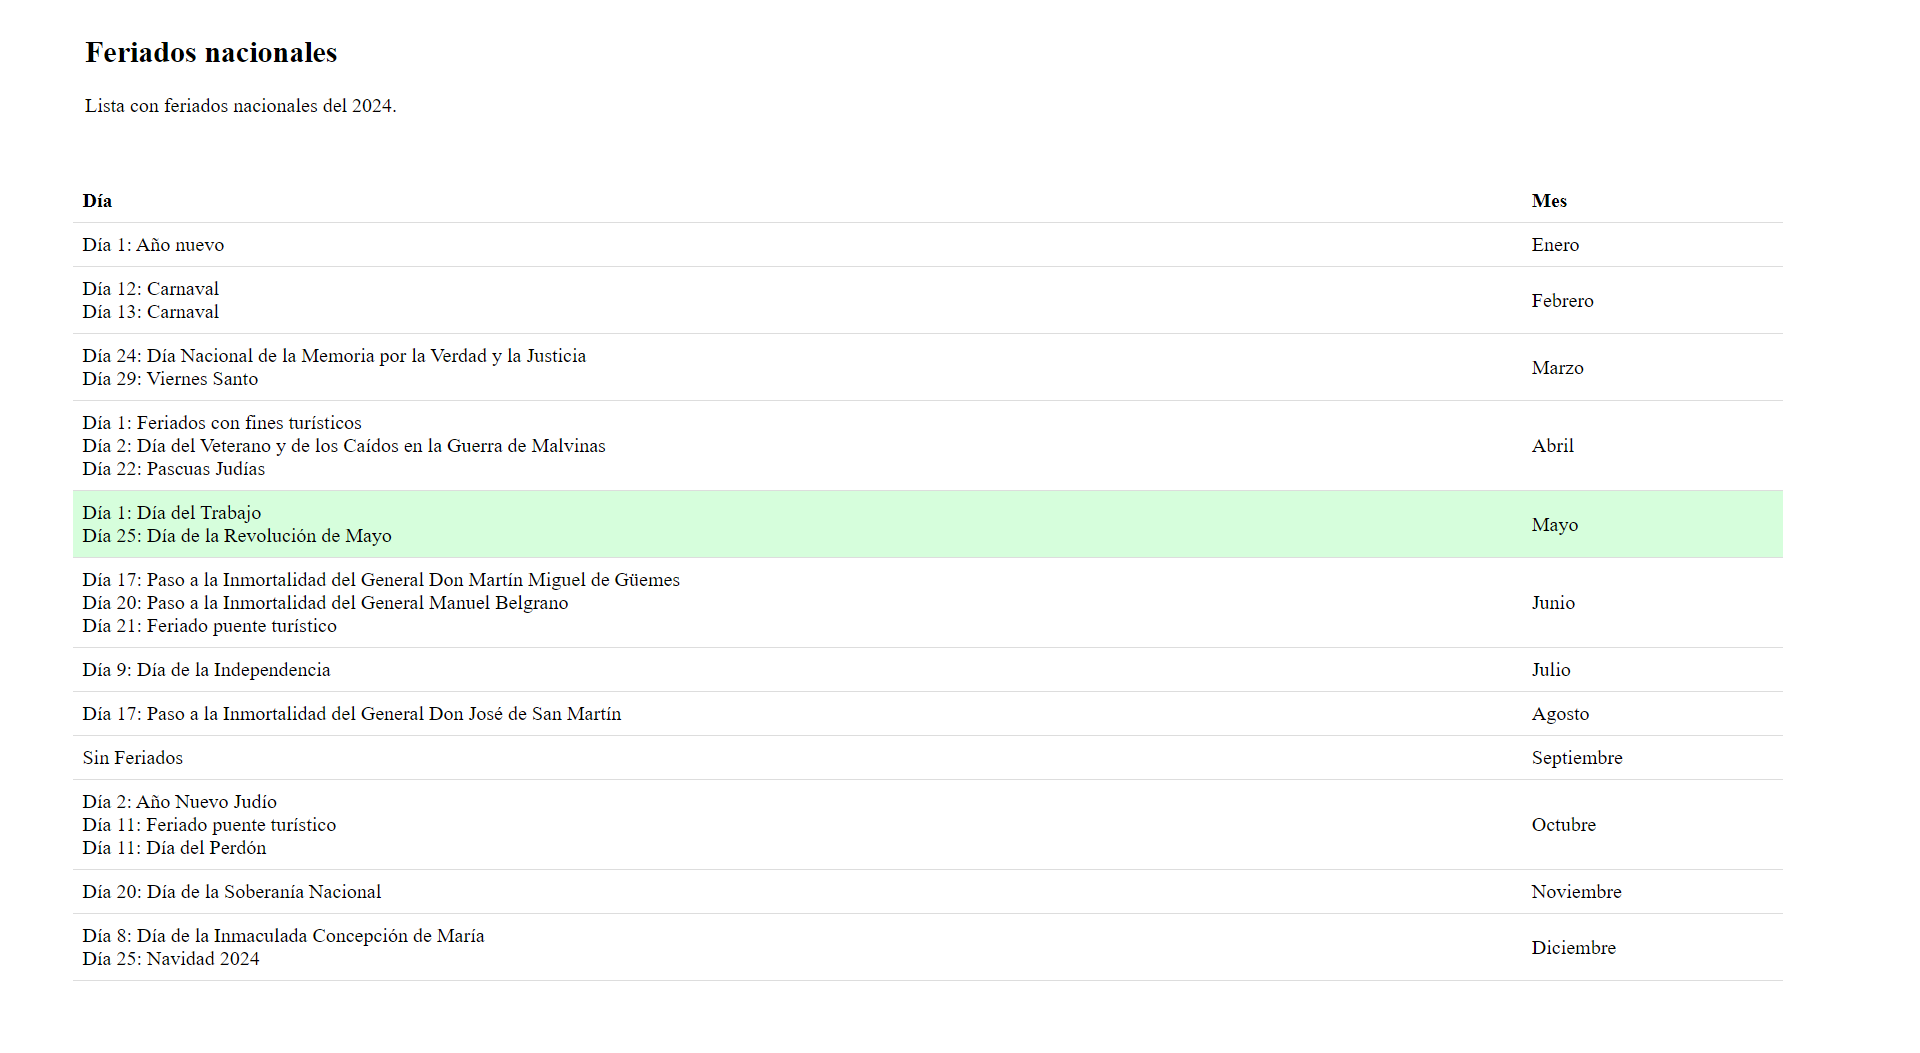
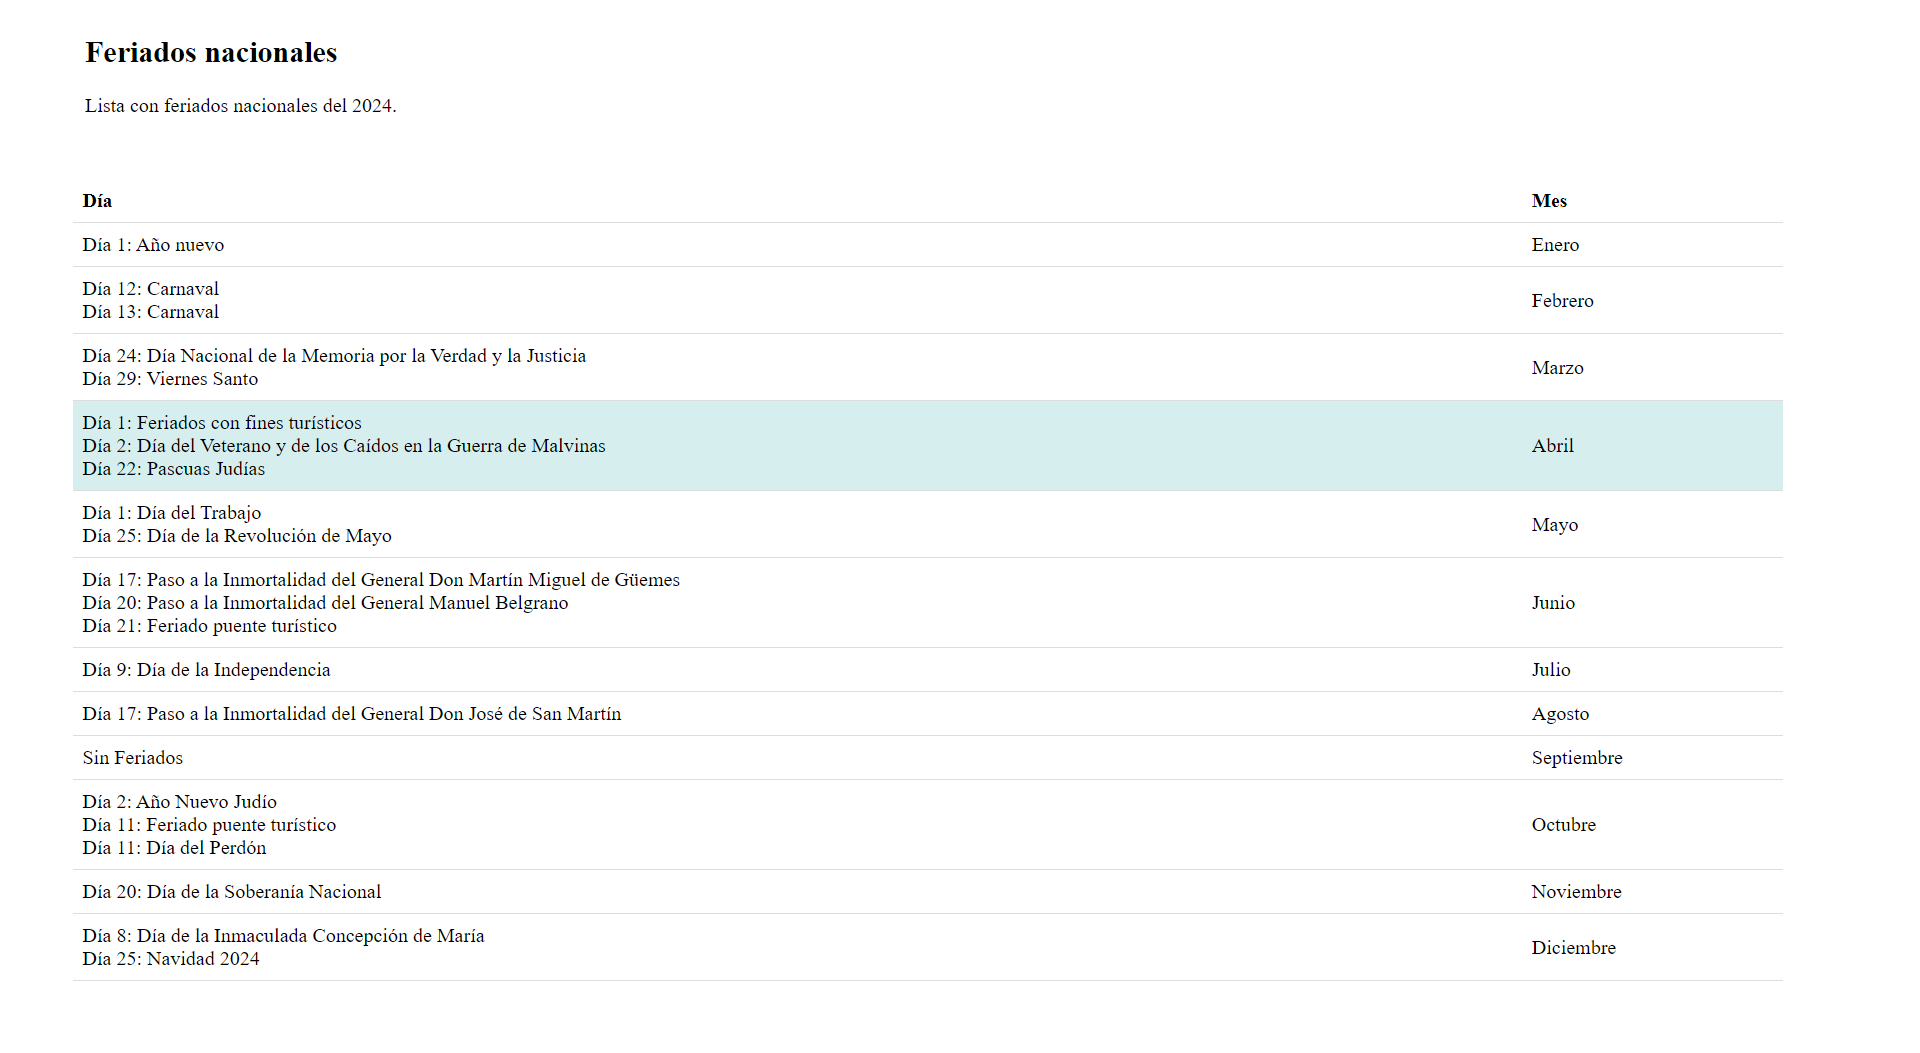
change image

Changed region(s): [[0.0312, 0.3647, 0.9375, 0.547]]

diff --git a/index.html b/index.html
@@ -17,7 +17,7 @@
             border-bottom: 1px solid #DDD;
         }
         tr:hover {
-            background-color: #d6fedc
+            background-color: #D6EEEE
         }
         h2,
         p {
